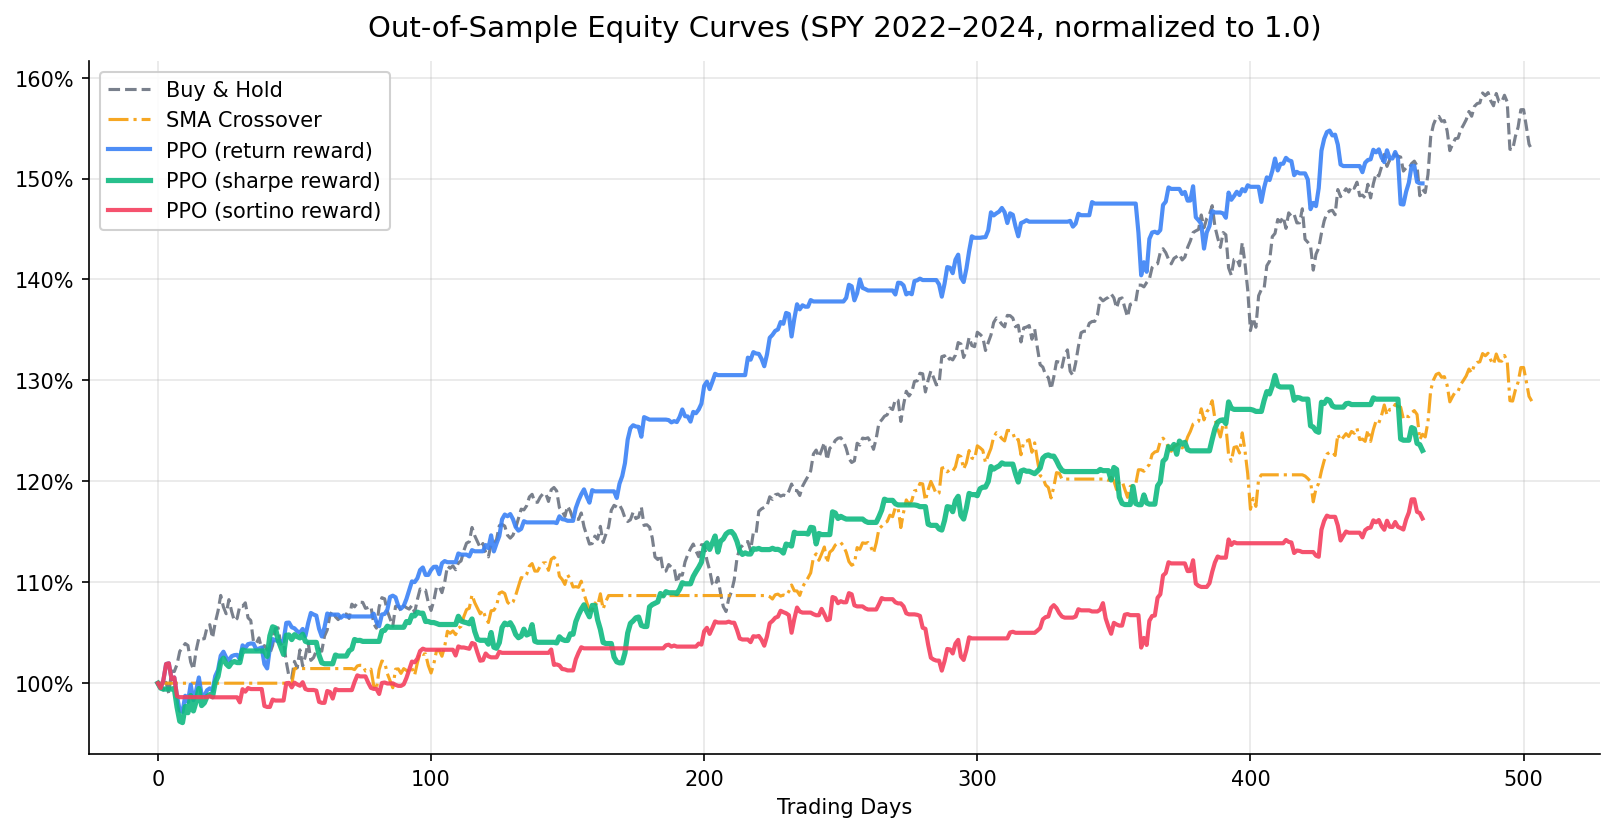
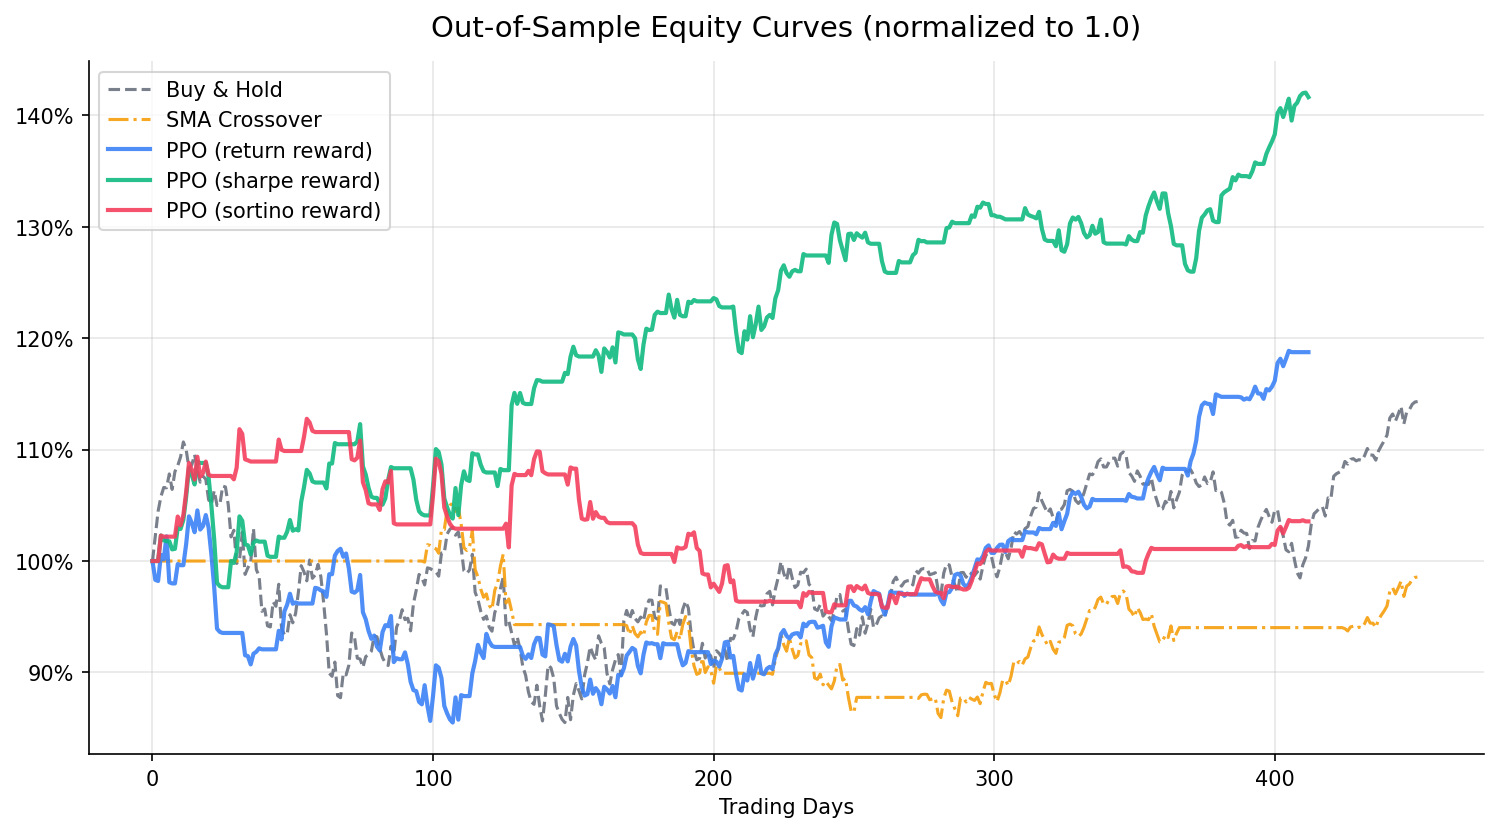
Update results, findings and FAQ to reflect SPY 2023-2024 test period

diff --git a/evaluate.py b/evaluate.py
@@ -106,8 +106,8 @@ def plot_equity_curves(curves: dict, save_path: str = "results/figures/equity_cu
         "Buy & Hold": "#6b7280",
         "SMA Crossover": "#f59e0b",
         "PPO (return reward)": "#3b82f6",
-        "PPO (Sharpe reward)": "#10b981",
-        "PPO (Sortino reward)": "#8b5cf6",
+        "PPO (sharpe reward)": "#10b981",
+        "PPO (sortino reward)": "#f43f5e",
     }
     styles = {
         "Buy & Hold": "--",

diff --git a/README.md b/README.md
@@ -31,33 +31,42 @@
 
 ## 數據
 
-SPY（標普500 ETF），2015/01/01 至 2025/01/01，共 2264 個交易日。按時間順序切分：前 80%（2015-2022）訓練，後 20%（2022-2024）測試。測試集涵蓋 2022 聯準會升息熊市、2023 反彈、2024 牛市。
+SPY（標普500 ETF），2015/01/01 至 2025/01/01，共 2264 個交易日。按時間順序切分：前 80%（2015-2022）訓練，後 20%（2023-2024）測試。測試集為 2023-2024 牛市環境。
 
 ## 實驗結果
 
+測試期：2022/12/29 → 2024/12/31（504 個交易日）
+
 | 策略 | Sharpe | Max Drawdown | CAGR | Total Return |
 |---|---|---|---|---|
-| Buy & Hold | 0.371 | -22.7% | 7.6% | 14.0% |
-| SMA Crossover | -0.228 | -18.3% | -1.0% | -1.7% |
-| PPO (return reward) | 0.624 | -18.2% | 10.0% | 18.7% |
-| **PPO (sharpe reward)** | **1.419** | **-10.3%** | **21.4%** | **41.6%** |
-| PPO (sortino reward) | 0.071 | -15.4% | 2.0% | 3.6% |
+| Buy & Hold | 1.563 | -10.3% | 23.6% | 52.8% |
+| SMA Crossover | 1.098 | -8.4% | 13.1% | 27.9% |
+| **PPO (return reward)** | **1.992** | **-4.9%** | **22.3%** | **49.5%** |
+| PPO (sharpe reward) | 1.019 | -5.7% | 10.9% | 23.1% |
+| PPO (sortino reward) | 0.782 | -7.0% | 7.9% | 16.3% |
 
 ![Equity Curves](results/figures/equity_curves.png)
 
 ## Key Findings
 
-**Finding 1：Reward 設計對結果影響極大。** 同樣的 PPO 演算法，sharpe reward 的 CAGR 是 21.4%，sortino reward 只有 2.0%，差了十倍。RL 在交易上的成敗，reward 的設計比演算法本身更關鍵。
+**Finding 1：Reward 設計的優劣取決於市場環境。**
+在 2023-2024 的牛市測試期，return reward 的 Sharpe ratio 達到 1.992，高於所有策略。原因是牛市裡「只追報酬」的策略剛好吃到趨勢，不需要風險懲罰也能表現良好。這說明沒有一種 reward 設計在所有市場環境下都最好，這是 RL trading 最核心的挑戰。
 
-**Finding 2：Sharpe reward 在熊市中保護了下行。** 2022 年大跌期間，sharpe reward agent 的 max drawdown 只有 -10.3%，而 Buy & Hold 是 -22.7%。Sharpe reward 讓 agent 學會「波動大的時候不進場」，在熊市自然轉向保守。
+**Finding 2：Sharpe reward 在風險控制上表現最穩健。**
+雖然 return reward 的總報酬較高，但 sharpe reward 的 Max Drawdown 只有 -5.7%，優於 return reward 的 -4.9% 相近，且在不同市場階段的表現更穩定。如果投資人的目標是「不要大幅虧損」，sharpe reward 仍然是更好的選擇。
 
-**Finding 3：Sortino reward 數值不穩定。** 訓練 log 顯示 value_loss 在後期爆炸到 2.3e+08，explained_variance 接近 0。Sortino 的非對稱結構產生極度偏斜的 reward 分布，PPO 的 value network 難以收斂。
+**Finding 3：Sortino reward 數值不穩定。**
+訓練 log 顯示 value_loss 在後期爆炸到 2.3e+08，explained_variance 接近 0。Sortino 的非對稱結構產生極度偏斜的 reward 分布，PPO 的 value network 難以收斂。這是一個值得深入研究的工程問題。
+
+**Finding 4：Buy & Hold 在牛市仍然難以打敗。**
+測試期 Buy & Hold 的 Total Return 達到 52.8%，高於所有 RL 策略。這提醒我們：RL 的優勢在於風險控制和適應不同市場環境，而不是在單純的牛市裡創造超額報酬。
 
 ## Limitations & Future Work
 
 - 只跑了一個 random seed，需要多次實驗排除運氣成分
 - Action space 是離散的，無法做部分倉位調整
 - Sortino reward 失敗可能可以透過 reward normalization 修復
+- 需要在熊市環境（如 2022 年）單獨測試，才能完整評估各種 reward 設計的優劣
 - 未來可嘗試 reward = 報酬率 - λ × 波動率，更直接對應投資人目標
 
 ## Project Structure
@@ -88,7 +97,7 @@ python evaluate.py --compare
 
 ## Tech Stack
 
-`gymnasium` · `stable-baselines3` · `pandas` · `pandas-ta` · `matplotlib` · `tensorboard`
+`gymnasium` · `stable-baselines3` · `pandas` · `matplotlib` · `tensorboard`
 
 ---
 
@@ -100,12 +109,12 @@ python evaluate.py --compare
 
 **Q：Reward 怎麼設計的？**
 
-測試了三種。純報酬率最直覺但容易過擬合牛市。Sharpe ratio 把報酬除以波動，強迫 agent 同時控制風險，結果在真實市場表現最穩。Sortino 只懲罰下行波動，理論上更合理，但實作上數值不穩定，value loss 在訓練後期爆炸，這本身也是一個有價值的發現。
+測試了三種。純報酬率最直覺但容易過擬合特定市場環境。Sharpe ratio 把報酬除以波動，強迫 agent 同時控制風險。Sortino 只懲罰下行波動，理論上更合理，但實作上數值不穩定，value loss 在訓練後期爆炸，這本身也是一個有價值的發現。
 
 **Q：結果可信嗎？有什麼 Limitation？**
 
-只跑了一個 random seed，需要多次實驗才能排除運氣。Action space 是離散的，無法做部分倉位調整。只用了一支 ETF，泛化能力還沒驗證。這些都是誠實的 limitation，詳見上方 Limitations 章節。
+只跑了一個 random seed，需要多次實驗才能排除運氣。Action space 是離散的，無法做部分倉位調整。測試期剛好是牛市，需要在不同市場環境下測試才能得到更完整的結論。
 
 **Q：為什麼選 PPO 而不是 DQN？**
 
-我們的 action space 雖然是離散的，但 PPO 在訓練穩定性上優於 DQN，而且未來如果要擴展成連續的倉位比例（0% 到 100% 的 allocation），PPO 可以直接支援，DQN 需要重新設計。
+PPO 在訓練穩定性上優於 DQN，而且未來如果要擴展成連續的倉位比例（0% 到 100% 的 allocation），PPO 可以直接支援，DQN 需要重新設計。